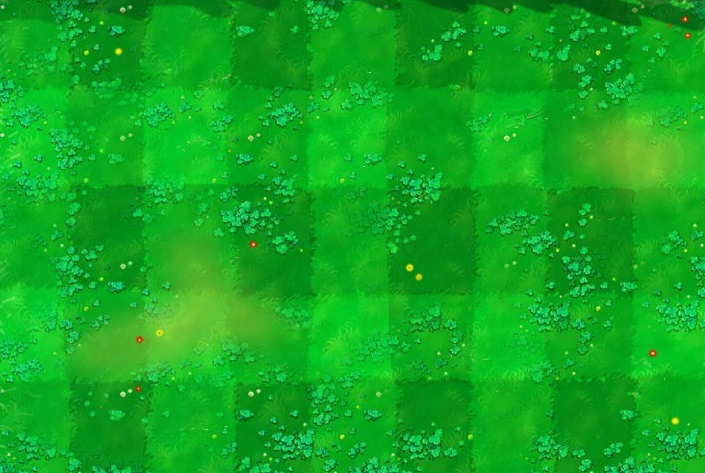
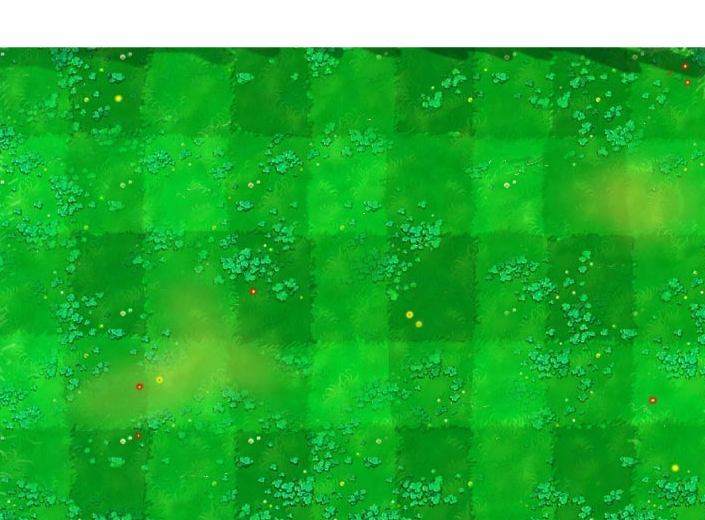
puuuuush

diff --git a/web/js/main.js b/web/js/main.js
@@ -19,6 +19,7 @@ AM.queueDownload("./img/knight/2_KNIGHT/DIE.png");
 AM.downloadAll(function () {
     var canvas = document.getElementById("gameWorld");
     var ctx = canvas.getContext("2d");
+	ctx.fillStyle = "white";
 
     var gameEngine = new GameEngine();
     gameEngine.init(ctx);
@@ -32,13 +33,14 @@ AM.downloadAll(function () {
     
     
     
-    gameEngine.addEntity(new Fairy(gameEngine, AM.getAsset("./img/fairy/1/2_WALK.png")));
+    
 //    gameEngine.addEntity(new Fairy(gameEngine, AM.getAsset("./img/fairy/1/6_ATTACK.png")));
 //    gameEngine.addEntity(new Fairy(gameEngine, AM.getAsset("./img/fairy/1/7_HURT.png")));
 //    gameEngine.addEntity(new Fairy(gameEngine, AM.getAsset("./img/fairy/1/1_IDLE.png")));
 //    gameEngine.addEntity(new Fairy(gameEngine, AM.getAsset("./img/fairy/1/8_DIE.png")));
 
     gameEngine.addEntity(new Knight(gameEngine, AM.getAsset("./img/knight/2_KNIGHT/WALK.png")));
+	gameEngine.addEntity(new Fairy(gameEngine, AM.getAsset("./img/fairy/1/2_WALK.png")));
     console.log("All Done!");
     
     

diff --git a/web/js/game.controller.js b/web/js/game.controller.js
@@ -20,6 +20,7 @@ var RIGHT = 1;
  */
 function Controller() 
 {
+	this.ctx = null;
 	/**
 	 * The mapping key
 	 */
@@ -30,6 +31,12 @@ function Controller()
      * the controller class
      */
     var that = this;
+	
+	this.init = function(ctx) 
+	{
+		this.ctx = ctx;
+		console.log(this.ctx);
+	}
     
     /**
      * The method hooks the key
@@ -86,14 +93,16 @@ function Controller()
 	{
 		if (event.button === 0 || event.button === 2) {
 			console.log("x: " + event.x + " y: " + event.y);
+			console.log(that.ctx.fillStyle);
+			that.ctx.fillRect(event.x, event.y, 100, 100);
 		}
 		event.preventDefault();
 	}
-
+	
     // strictly hook event listener to the methods
 	document.addEventListener("keydown", this.keydown, false);
 	document.addEventListener("keyup", this.keyup, false);
 	
 	document.addEventListener("click", this.mouseclick, false);
-	document.addEventListener("contextmenu", this.mouseclick, false);
+	//document.addEventListener("contextmenu", this.mouseclick, false);
 }

diff --git a/web/js/entity/knight.js b/web/js/entity/knight.js
@@ -1,12 +1,10 @@
 function Knight(game, spritesheet) 
 {
 	// the sprite coordinate must be modified
-	this.animation = new Animation(spritesheet, 136, 128, 4, 0.25, 4 , true, 1);
-	this.x = 0;
-	this.y = 500;
+	this.animation = new Animation(spritesheet, 136, 128, 4, 0.25, 4 , true, 1.2);
 	this.speed = -10;
 	this.ctx = game.ctx;
-	Entity.call(this, game, 500, 350);
+	Entity.call(this, game, 500, 110);
 }
 
 Knight.prototype = new Entity();

diff --git a/web/js/entity/elf.js b/web/js/entity/elf.js
@@ -3,10 +3,10 @@ function Elf(game, spritesheets)
 	// the sprite coordinate must be modified
 	this.animation = new Animation(spritesheets[0], 118, 128, 4, 0.25, 4, true, 1);
 	this.x = 100;
-	this.y = 100;
+	this.y = 0;
 	this.speed = 0;
 	this.ctx = game.ctx;
-	Entity.call(this, game, 100, 100);
+	Entity.call(this, game, 100, 0);
 }
 
 Elf.prototype = new Entity();

diff --git a/web/js/entity/fairy.js b/web/js/entity/fairy.js
@@ -4,9 +4,9 @@ function Fairy(game, spritesheet)
 	this.animation = new Animation(spritesheet, 150, 128, 4, 0.25, 4 , true, 1);
 	this.x = 0;
 	this.y = 500;
-	this.speed = 100;
+	this.speed = 25;
 	this.ctx = game.ctx;
-	Entity.call(this, game, 100, 500);
+	Entity.call(this, game, 0, 210);
 }
 
 Fairy.prototype = new Entity();

diff --git a/web/js/entity/background.js b/web/js/entity/background.js
@@ -7,7 +7,7 @@ function Background(game, spritesheet) {
 };
 
 Background.prototype.draw = function () {
-    this.ctx.drawImage(this.spritesheet,this.x, this.y);
+    this.ctx.drawImage(this.spritesheet,this.x, this.y, 960, 540);
 };
 
 Background.prototype.update = function () {

diff --git a/web/js/game.engine.js b/web/js/game.engine.js
@@ -30,6 +30,7 @@ function GameEngine()
     this.init = function(ctx) 
     {
         this.ctx = ctx;
+		this.controller.init(ctx);
         this.surfaceWidth = this.ctx.canvas.width;
         this.surfaceHeight = this.ctx.canvas.height;
         this.timer = new Timer();
